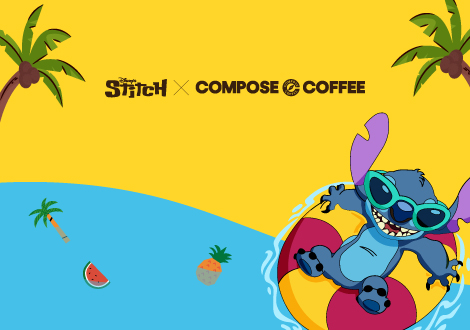
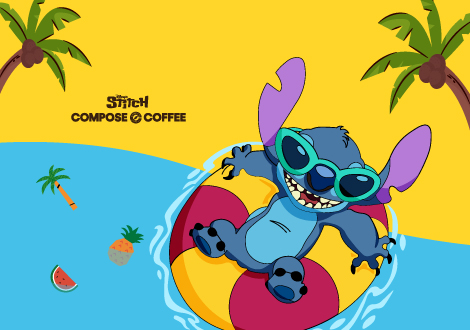
ver 1.7

diff --git a/css/style.css b/css/style.css
@@ -39,7 +39,7 @@ p {
 }
 
 h1, h2, h3, h4, h5, h6 {
-  color: #000;
+  color: #555;
   font-family: "Source Sans Pro", Arial, sans-serif;
   font-weight: 400;
   margin: 0 0 30px 0;
@@ -245,7 +245,7 @@ h1, h2, h3, h4, h5, h6 {
 }
 #fh5co-header #navbar li a {
   font-family: "Source Sans Pro", Arial, sans-serif;
-  color: rgba(255, 255, 255, 0.5);
+  color: #555;
   position: relative;
   font-size: 19px;
   font-weight: 300;
@@ -262,7 +262,7 @@ h1, h2, h3, h4, h5, h6 {
   height: 2px;
   bottom: 0;
   left: 0;
-  background-color: rgba(255, 255, 255, 0.5);
+  background-color: #555;
   visibility: hidden;
   -webkit-transform: scaleX(0);
   -moz-transform: scaleX(0);
@@ -276,7 +276,7 @@ h1, h2, h3, h4, h5, h6 {
   transition: all 0.3s ease-in-out 0s;
 }
 #fh5co-header #navbar li a:hover {
-  color: #fff;
+  color: #555;
 }
 #fh5co-header #navbar li a:hover span:before {
   visibility: visible;
@@ -289,7 +289,7 @@ h1, h2, h3, h4, h5, h6 {
 #fh5co-header #navbar li.active a {
   background: transparent;
   background: none;
-  color: #fff;
+  color: #555;
 }
 #fh5co-header #navbar li.active a span:before {
   visibility: visible;
@@ -302,7 +302,7 @@ h1, h2, h3, h4, h5, h6 {
   font-size: 30px;
   font-weight: 700;
   padding-left: 0;
-  color: #fff;
+  color: #555;
 }
 #fh5co-header.navbar-fixed-top {
   position: fixed !important;
@@ -375,7 +375,7 @@ h1, h2, h3, h4, h5, h6 {
   position: relative;
   width: 100%;
   background-color: #52d3aa;
-  color: #fff;
+  color: #000;
   overflow: hidden;
 }
 #fh5co-home .gradient {
@@ -385,17 +385,8 @@ h1, h2, h3, h4, h5, h6 {
   left: 0;
   right: 0;
   z-index: 2;
-  opacity: .9;
   -webkit-backface-visibility: hidden;
-  background-color: #52d3aa;
-  /* IE9, iOS 3.2+ */
[1 lines of base64/hex data omitted]
-  background-image: -webkit-gradient(linear, 0% 0%, 100% 100%, color-stop(0, #3f95ea), color-stop(1, #52d3aa));
-  /* Android 2.3 */
-  background-image: -webkit-repeating-linear-gradient(top left, #3f95ea 0%, #52d3aa 100%);
-  /* IE10+ */
-  background-image: repeating-linear-gradient(to bottom right, #3f95ea 0%, #52d3aa 100%);
-  background-image: -ms-repeating-linear-gradient(top left, #3f95ea 0%, #52d3aa 100%);
+  background-color: #fafafa;  
 }
 #fh5co-home, #fh5co-home .text-wrap {
   height: 900px;
@@ -425,14 +416,14 @@ h1, h2, h3, h4, h5, h6 {
 }
 #fh5co-home .text-inner h1 {
   font-size: 50px;
-  color: white;
+  color: #555;
   margin: 0 0 20px 0;
 }
 #fh5co-home .text-inner h2 {
   font-size: 28px;
   line-height: 38px;
   font-weight: 300;
-  color: rgba(255, 255, 255, 0.8);
+  color: #555;
   margin: 0;
 }
 
@@ -862,15 +853,7 @@ h1, h2, h3, h4, h5, h6 {
   overflow: hidden;
   position: relative;
   color: rgba(255, 255, 255, 0.8);
-  background-color: #52d3aa;
-  /* IE9, iOS 3.2+ */
[1 lines of base64/hex data omitted]
-  background-image: -webkit-gradient(linear, 0% 0%, 100% 100%, color-stop(0, #3f95ea), color-stop(1, #52d3aa));
-  /* Android 2.3 */
-  background-image: -webkit-repeating-linear-gradient(top left, #3f95ea 0%, #52d3aa 100%);
-  /* IE10+ */
-  background-image: repeating-linear-gradient(to bottom right, #3f95ea 0%, #52d3aa 100%);
-  background-image: -ms-repeating-linear-gradient(top left, #3f95ea 0%, #52d3aa 100%);
+  background-color: #fafafa;
 }
 #fh5co-work a {
   color: rgba(255, 255, 255, 0.5);
@@ -903,13 +886,13 @@ h1, h2, h3, h4, h5, h6 {
   margin-bottom: -35px;
 }
 #fh5co-work .section-heading h2 {
-  color: #fff;
+  color: #555;
 }
 #fh5co-work .section-heading h2:after {
   background: rgba(255, 255, 255, 0.3);
 }
 #fh5co-work .section-heading h3 {
-  color: rgba(255, 255, 255, 0.8);
+  color: #555;
 }
 #fh5co-work .fh5co-project-item {
   display: block;

diff --git a/index.html b/index.html
@@ -37,7 +37,7 @@
 			<div class="container">
 			    <nav class="navbar navbar-default">
 		        <div class="navbar-header">
-		        <a class="navbar-brand" href="index.html">Hong MaRo</a> 
+		        <a class="navbar-brand" href="index.html">HMR</a> 
 		        </div>
 		        <div id="navbar" class="navbar-collapse collapse">
 		          <ul class="nav navbar-nav navbar-right">
@@ -57,7 +57,7 @@
 				<div class="text-inner">
 					<div class="row">
 						<div class="col-md-8 col-md-offset-2">
-							<h1 class="to-animate">Introduce my self</h1>
+							<h1 class="to-animate">Hong Ma Ro</h1>
 							<h2 class="to-animate">UXUI &amp; Web / App Designer</h2>
 						</div>
 					</div>
@@ -75,7 +75,7 @@
 					<div class="overlay"></div>
 					<div class="fh5co-text">
 						<i class="fh5co-intro-icon icon-bulb"></i>
-						<h2>Plan</h2>
+						<h2>Web</h2>
 						<p>Far far away, behind the word mountains, far from the countries Vokalia and Consonantia, there live the blind texts.</p>
 						<p><a href="#" class="btn btn-primary">Get In Touch</a></p>
 					</div>
@@ -85,7 +85,7 @@
 					<div class="overlay"></div>
 					<div class="fh5co-text">
 						<i class="fh5co-intro-icon icon-wrench"></i>
-						<h2>Develop</h2>
+						<h2>App</h2>
 						<p>Far far away, behind the word mountains, far from the countries Vokalia and Consonantia, there live the blind texts.</p>
 						<p><a href="#" class="btn btn-primary">Click Me</a></p>
 					</div>
@@ -95,7 +95,7 @@
 					<div class="overlay"></div>
 					<div class="fh5co-text">
 						<i class="fh5co-intro-icon icon-rocket"></i>
-						<h2>Launch</h2>
+						<h2>Illustration</h2>
 						<p>Far far away, behind the word mountains, far from the countries Vokalia and Consonantia, there live the blind texts.</p>
 						<p><a href="#" class="btn btn-primary">Why Us?</a></p>
 					</div>
@@ -111,14 +111,14 @@
 					<h2 class="to-animate">Portfolio</h2>
 					<div class="row">
 						<div class="col-md-8 col-md-offset-2 subtext to-animate">
-							<h3>BX Design, Web Design, Visual Design, UI&amp;UX Design</h3>
+							<h3>UXUI, Web Design, App Design, Promotion</h3>
 						</div>
 					</div>
 				</div>
 			</div>
 			<div class="row row-bottom-padded-sm">
 				<div class="col-md-4 col-sm-6 col-xxs-12">
-					<a href="images/work_1.jpg" class="fh5co-project-item image-popup to-animate">
+					<a href="hpix.html" target="_blank" class="fh5co-project-item to-animate">
 						<img src="images/hpix_thum.jpg" alt="Image" class="img-responsive">
 						<div class="fh5co-text">
 						<h2>Hpix</h2>
@@ -127,7 +127,7 @@
 					</a>
 				</div>
 				<div class="col-md-4 col-sm-6 col-xxs-12">
-					<a href="images/work_2.jpg" class="fh5co-project-item image-popup to-animate">
+					<a href="https://formaro99.ivyro.net/aromatica" target="_blank" class="fh5co-project-item to-animate">
 						<img src="images/aromatica_thum.jpg" alt="Image" class="img-responsive">
 						<div class="fh5co-text">
 						<h2>Aromatica</h2>
@@ -169,7 +169,7 @@
 					</a>
 				</div>
 				<div class="col-md-4 col-sm-6 col-xxs-12">
-					<a href="images/work_6.jpg" class="fh5co-project-item image-popup to-animate">
+					<a href="compose.html" class="fh5co-project-item to-animate">
 						<img src="images/compose_thum.jpg" alt="Image" class="img-responsive">
 						<div class="fh5co-text">
 						<h2>컴포즈커피 x 스티치</h2>

diff --git a/compose.html b/compose.html
@@ -1,0 +1,16 @@
+<!DOCTYPE html>
+<html lang="en">
+
+<head>
+    <meta charset="UTF-8">
+    <meta name="viewport" content="width=device-width, initial-scale=1.0">
+    <title></title>
+    <link rel="stylesheet" href="css/pofol.css">
+
+</head>
+
+<body>
+    <img src="images/compose/compose_pofol.jpg" alt="">
+</body>
+
+</html>

diff --git a/hpix.html b/hpix.html
@@ -1,0 +1,16 @@
+<!DOCTYPE html>
+<html lang="ko">
+
+<head>
+    <meta charset="UTF-8">
+    <meta name="viewport" content="width=device-width, initial-scale=1.0">
+    <title></title>
+
+    <link rel="stylesheet" href="css/pofol.css">
+</head>
+
+<body>
+        <img src="images/hpix/hpix_pofol.jpg" alt="">
+</body>
+
+</html>

diff --git a/css/pofol.css b/css/pofol.css
@@ -1,0 +1,8 @@
+* {
+    margin: 0;
+    padding: 0;
+    vertical-align: top;
+    display: flex;
+    flex-wrap: wrap;
+    justify-content: center;
+}
